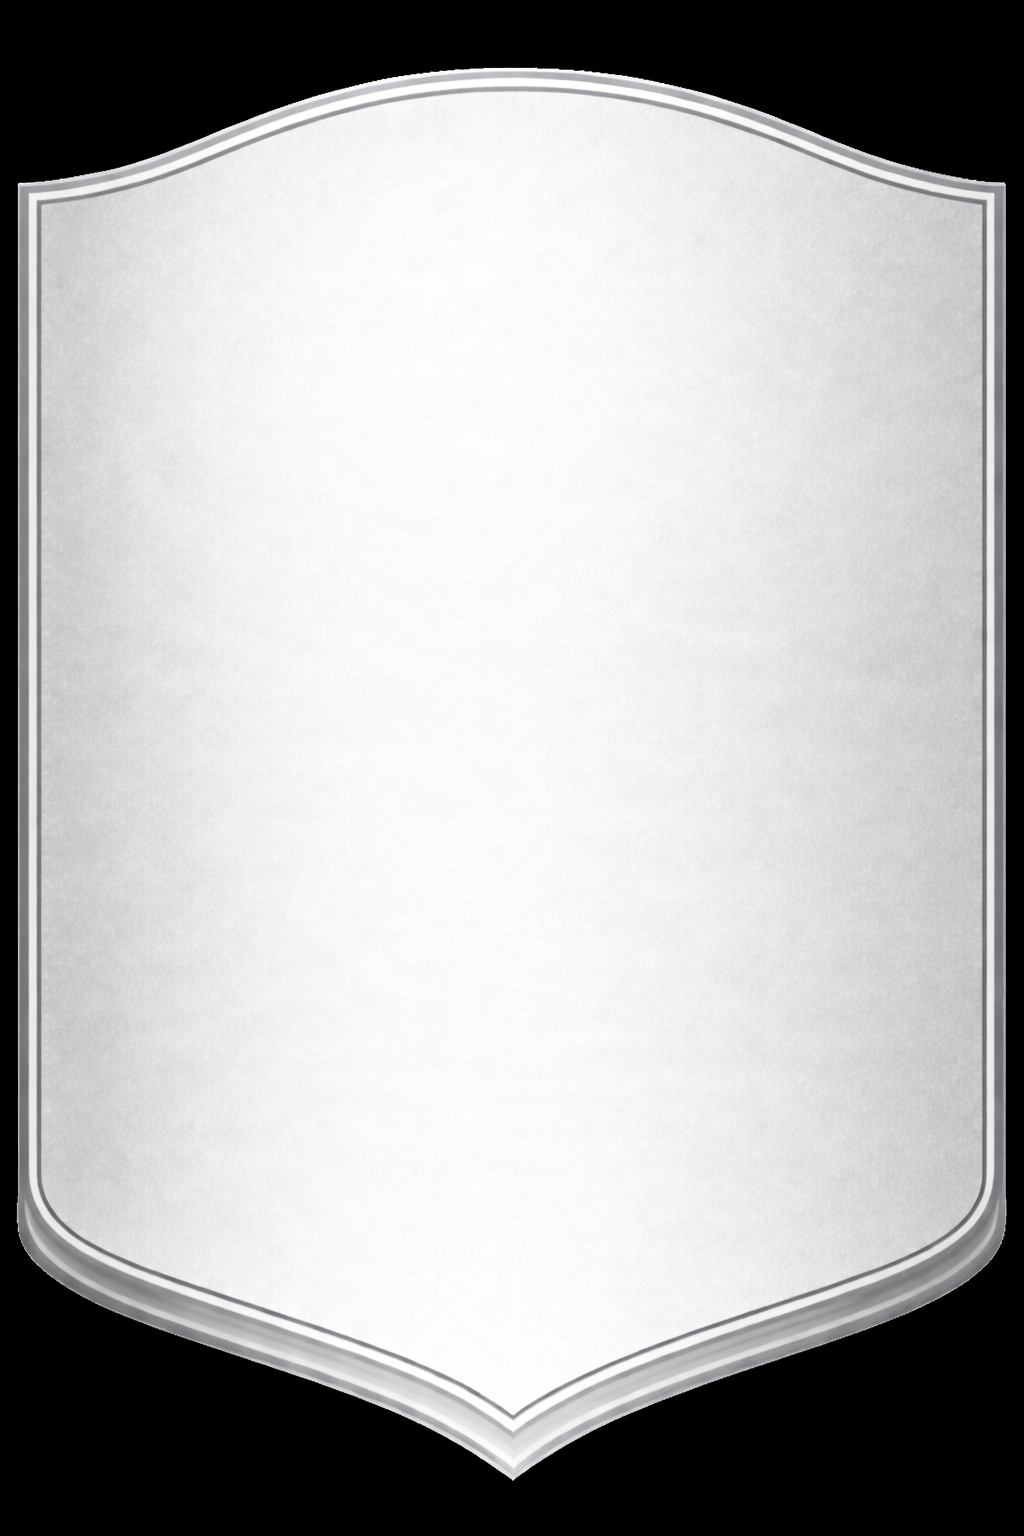
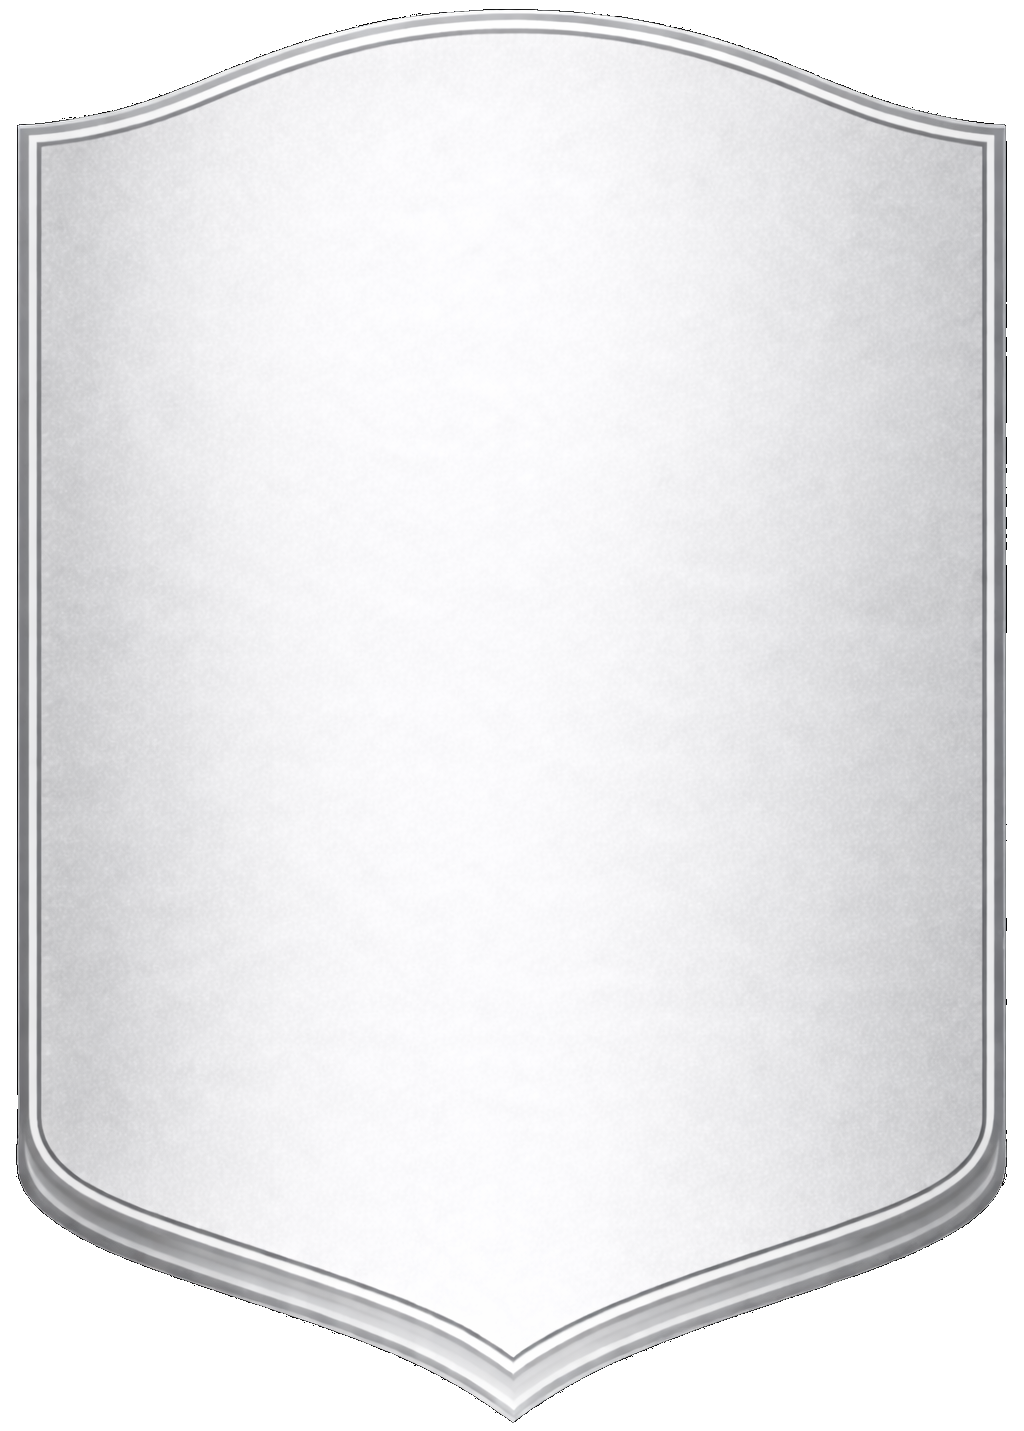
updated placeholderavatar and added more base-playercards

Changed region(s): [[0.0, 0.0, 1.0, 1.0]]

diff --git a/TeamMakerApp/src/app/(app)/(non-tabs)/PreviewScreen.tsx b/TeamMakerApp/src/app/(app)/(non-tabs)/PreviewScreen.tsx
@@ -15,7 +15,7 @@ export default function PreviewScreen() {
         <PlayerCard
           name="Sample Player"
           number={67}
-          placeholderAvatarSource={require("../../../../assets/avatar-placeholder.png")}
+          placeholderAvatarSource={require("../../../../assets/avatar_placeholder.png")}
           cardWidth={200}
           //cardHeight={180} //dont provide this, so aspectRatio can keep proportions
           themed={themed}
@@ -25,7 +25,7 @@ export default function PreviewScreen() {
         <PlayerCard
           name="Nikolaus"
           number={100}
-          placeholderAvatarSource={require("../../../../assets/avatar-placeholder.png")}
+          placeholderAvatarSource={require("../../../../assets/avatar_placeholder.png")}
           cardWidth={100}
           //cardHeight={180} //dont provide this, so aspectRatio can keep proportions
           themed={themed}
@@ -35,7 +35,7 @@ export default function PreviewScreen() {
         <PlayerCard
           name="Maximus-MaximilianMeridian"
           number={9}
-          placeholderAvatarSource={require("../../../../assets/avatar-placeholder.png")}
+          placeholderAvatarSource={require("../../../../assets/avatar_placeholder.png")}
           cardWidth={80}
           //cardHeight={180} //dont provide this, so aspectRatio can keep proportions
           themed={themed}

diff --git a/TeamMakerApp/src/app/(app)/(tabs)/index.tsx b/TeamMakerApp/src/app/(app)/(tabs)/index.tsx
@@ -45,7 +45,7 @@ const HomeScreen = () => {
     themed, theme, themeContext,
   } = useAppTheme()
 
-  const placeholderAvatar = require("../../../../assets/avatar-placeholder.png") //TODO change this to an actual placeholder avatar, this one is just quickly from the internet.
+  const placeholderAvatar = require("../../../../assets/avatar_placeholder.png") //TODO change this to an actual placeholder avatar, this one is just quickly from the internet.
 
   const [searchQuery, setSearchQuery] = useState<string>('');
   const [filteredData, setFilteredData] = useState<Item[]>([]);

diff --git a/TeamMakerApp/src/app/(app)/(tabs)/FriendsListScreen.tsx b/TeamMakerApp/src/app/(app)/(tabs)/FriendsListScreen.tsx
@@ -17,7 +17,7 @@ const FriendsListScreen = () => {
     themed, theme, themeContext,
   } = useAppTheme()
 
-  const placeholderAvatar = require("../../../../assets/avatar-placeholder.png") //TODO change this to an actual placeholder avatar, this one is just quickly from the internet.
+  const placeholderAvatar = require("../../../../assets/avatar_placeholder.png") //TODO change this to an actual placeholder avatar, this one is just quickly from the internet.
 
   // Sample data for the friends list
   const friends = [

diff --git a/TeamMakerApp/src/app/(app)/(non-tabs)/MakeTeamsScreen.tsx b/TeamMakerApp/src/app/(app)/(non-tabs)/MakeTeamsScreen.tsx
@@ -41,7 +41,7 @@ const SavedItemsScreen = () => {
   // undoing cross-team transfers. This flag prevents that feedback loop.
   const internalStoreUpdateRef = useRef(false)
 
-  const placeholderAvatar = require("../../../../assets/avatar-placeholder.png")
+  const placeholderAvatar = require("../../../../assets/avatar_placeholder.png")
   const courtBackgroundSource = theme.isDark
     ? require("../../../../assets/images/volleyball_court_black.png")
     : require("../../../../assets/images/volleyball_court.png")

diff --git a/README.md b/README.md
@@ -272,8 +272,8 @@ Change color of field if added. Rounded edges. Little bit of space between each 
 - [ ] MakeTeamsScreen changes: Right rail better padding, also more padding for centerboxes
 - [ ] Change colors of buttons for playerselectionscreen, i feel like they are too dark.
 - [ ] MakeTeamsScreen changes: Header also dark when darkmode.
-- [ ] Use this website to make background transparent from png with blue and red border https://onlinepngtools.com/create-transparent-png
-- [ ] Make PlayerCard-Prop which makes it possible to change the card in the background.
+- [x] Use this website to make background transparent from png with blue and red border https://onlinepngtools.com/create-transparent-png
+- [x] Make PlayerCard-Prop which makes it possible to change the card in the background.
 - [ ] Exchange the placeholder-avatar for the new one (after trimming parts to be transparent)
 - [ ] Think about making the player cards lower quality, as they tiny most of the time (but not always, so maybe i need both)
 - [ ] Somehow there is too much room when a row consists of 3 PlayerCards  in MakeTeamsScreen. (i mean more room between two cards than between the two others.)
